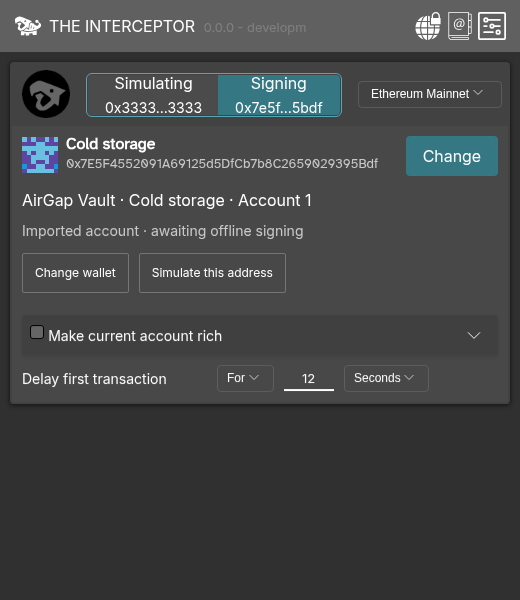
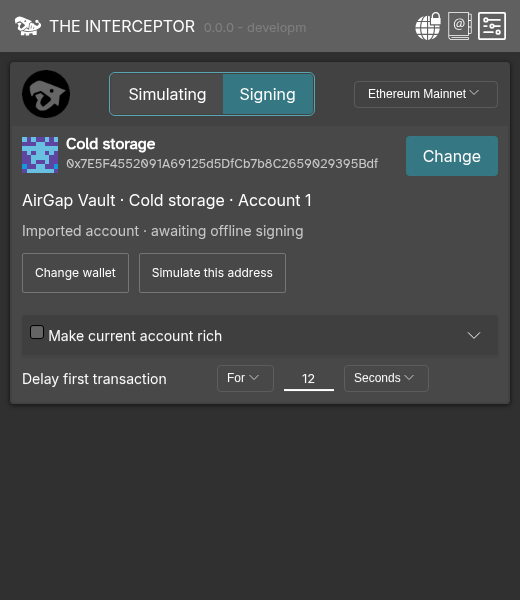
Remove address labels from signing mode buttons

Changed region(s): [[0.1846, 0.12, 0.6769, 0.21], [0.7077, 0.15, 0.9231, 0.18]]

diff --git a/app/ts/components/pages/Home.tsx b/app/ts/components/pages/Home.tsx
@@ -1,5 +1,4 @@
 import { SafeSigningAccounts } from '../subcomponents/SafeSigningAccounts.js'
-import { ModeAddressTarget } from '../subcomponents/ModeAddressTarget.js'
 import { SigningWalletSummary } from '../subcomponents/SigningWalletSummary.js'
 import { getRpcNetworkChange } from '../../utils/rpcNetworkChange.js'
 import type { HomeParams, FirstCardParams, SimulationStateParam, RenameAddressCallBack, TabState } from '../../types/user-interface-types.js'
@@ -293,7 +292,7 @@ function FirstCardHeader(param: FirstCardParams) {
 						keepTextWhilePending = { true }
 						pendingIndicatorPlacement = 'overlay'
 						pendingText = { param.simulationMode.value ? 'Refreshing simulation...' : 'Switching to simulating mode...' }
-						text = { <span>Simulating<br/><ModeAddressTarget mode = 'simulation'/></span> }
+						text = 'Simulating'
 						onClick = { enableSimulating }
 					/>
 					<AsyncActionButton
@@ -303,7 +302,7 @@ function FirstCardHeader(param: FirstCardParams) {
 						disabled = { !param.simulationMode.value || controlsDisabled }
 						keepTextWhilePending = { true }
 						pendingIndicatorPlacement = 'overlay'
-						text = { <span>Signing<br/><ModeAddressTarget mode = 'signing'/></span> }
+						text = 'Signing'
 						pendingText = { !param.simulationMode.value ? 'Updating signing mode...' : 'Switching to signing mode...' }
 						onClick = { enableSigning }
 					/>

diff --git a/docs/direct-signing-development.md b/docs/direct-signing-development.md
@@ -11,7 +11,7 @@ Open **Change** beside the active address, then **Add address / signing wallet**
 - **AirGap Vault:** export an Ethereum `crypto-account` or `crypto-hdkey` public-account UR and scan it with the camera. Review and name the imported accounts. Account-root exports derive change 0, index 0; concrete address exports retain their supplied path. An imported account is awaiting offline signing, not continuously connected. Public-account import does not establish possession of a private key; every returned signature is independently verified.
 - **Manual:** enter an address and name. It remains available for chain reads and simulation. Real signing requires a wallet binding.
 
-Saved accounts remain visible while disconnected. Selecting an ordinary address in Signing mode pins it independently of browser-wallet account and chain callbacks. **Change signing wallet** edits the same address without selecting it; removing a binding retains the address. **Simulate this address** changes the simulation selection without changing the remembered explicit signing selection. Mode buttons display their stored target addresses. Legacy browser-wallet-following selections remain supported.
+Saved accounts remain visible while disconnected. Selecting an ordinary address in Signing mode pins it independently of browser-wallet account and chain callbacks. **Change signing wallet** edits the same address without selecting it; removing a binding retains the address. **Simulate this address** changes the simulation selection without changing the remembered explicit signing selection. The Simulating and Signing buttons switch modes; each mode remembers its address selection. Legacy browser-wallet-following selections remain supported.
 
 For a Safe, select a saved signing-owner account under **Safe signing accounts**. Interceptor checks current on-chain ownership. The owner’s binding supplies owner signatures; a separate execution/gas-paying account can be selected. Simulation-owner selection remains separate. An owner signature does not itself broadcast an outer execution transaction.
 

diff --git a/docs/direct-signing-ui-walkthrough.md b/docs/direct-signing-ui-walkthrough.md
@@ -16,7 +16,7 @@ Captured with Chrome for Testing 145.0.7632.6 on Linux/Xvfb at device scale 1. A
 
 ## 1. Home: address, wallet, and mode
 
-Open the toolbar popup to see the active address, its saved AirGap wallet, and the separate remembered mode targets. Wallet controls sit below the account status. This is the actual 520 × 600 popup after loading completes.
+Open the toolbar popup to see the active address, its saved AirGap wallet, and the Simulating and Signing mode buttons. Wallet controls sit below the account status. This is the actual 520 × 600 popup after loading completes.
 
 ![Home: address, wallet, and mode](images/direct-signing/00-home.png)
 
